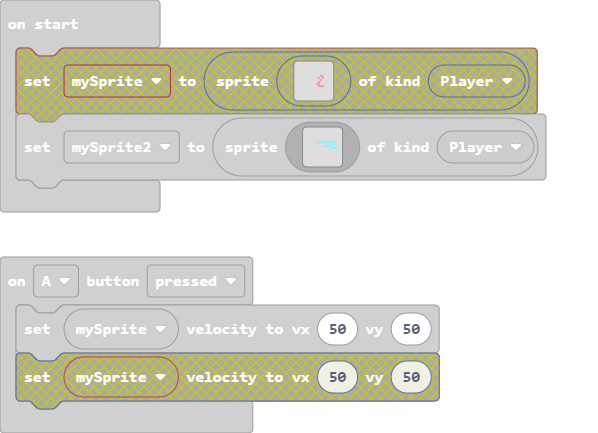
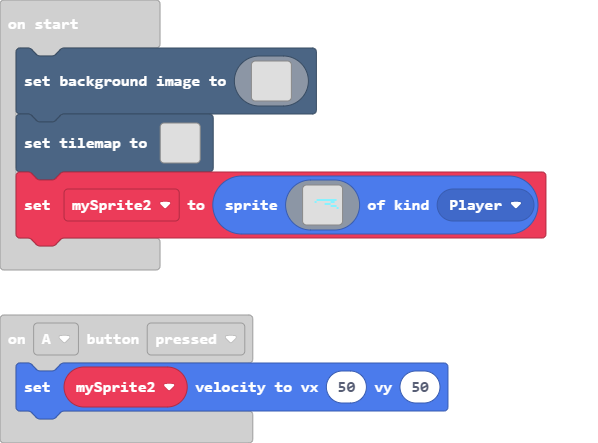
sum shit

diff --git a/main.ts b/main.ts
@@ -1,8 +1,131 @@
 controller.A.onEvent(ControllerButtonEvent.Pressed, function () {
-    let mySprite: Sprite = null
-    mySprite.setVelocity(50, 50)
+    mySprite2.setVelocity(50, 50)
 })
-let mySprite2 = sprites.create(img`
+let mySprite2: Sprite = null
+scene.setBackgroundImage(img`
+    ................................................................................................................................................................
+    ................................................................................................................................................................
+    ................................................................................................................................................................
+    ................................................................................................................................................................
+    ................................................................................................................................................................
+    ................................................................................................................................................................
+    ................................................................................................................................................................
+    ................................................................................................................................................................
+    ................................................................................................................................................................
+    ................................................................................................................................................................
+    ................................................................................................................................................................
+    ................................................................................................................................................................
+    ................................................................................................................................................................
+    ................................................................................................................................................................
+    ................................................................................................................................................................
+    ................................................................................................................................................................
+    ................................................................................................................................................................
+    ................................................................................................................................................................
+    ................................................................................................................................................................
+    ................................................................................................................................................................
+    ................................................................................................................................................................
+    ................................................................................................................................................................
+    ................................................................................................................................................................
+    ................................................................................................................................................................
+    ................................................................................................................................................................
+    ................................................................................................................................................................
+    ................................................................................................................................................................
+    ................................................................................................................................................................
+    ................................................................................................................................................................
+    ................................................................................................................................................................
+    ................................................................................................................................................................
+    ................................................................................................................................................................
+    ................................................................................................................................................................
+    ................................................................................................................................................................
+    ................................................................................................................................................................
+    ................................................................................................................................................................
+    ................................................................................................................................................................
+    ................................................................................................................................................................
+    ................................................................................................................................................................
+    ................................................................................................................................................................
+    ................................................................................................................................................................
+    ................................................................................................................................................................
+    ................................................................................................................................................................
+    ................................................................................................................................................................
+    ................................................................................................................................................................
+    ................................................................................................................................................................
+    ................................................................................................................................................................
+    ................................................................................................................................................................
+    ................................................................................................................................................................
+    ................................................................................................................................................................
+    ................................................................................................................................................................
+    ................................................................................................................................................................
+    ................................................................................................................................................................
+    ................................................................................................................................................................
+    ................................................................................................................................................................
+    ................................................................................................................................................................
+    ................................................................................................................................................................
+    ................................................................................................................................................................
+    ................................................................................................................................................................
+    ................................................................................................................................................................
+    ................................................................................................................................................................
+    ................................................................................................................................................................
+    ................................................................................................................................................................
+    ................................................................................................................................................................
+    ................................................................................................................................................................
+    ................................................................................................................................................................
+    ................................................................................................................................................................
+    ................................................................................................................................................................
+    ................................................................................................................................................................
+    ................................................................................................................................................................
+    ................................................................................................................................................................
+    ................................................................................................................................................................
+    ................................................................................................................................................................
+    ................................................................................................................................................................
+    ................................................................................................................................................................
+    ................................................................................................................................................................
+    ................................................................................................................................................................
+    ................................................................................................................................................................
+    ................................................................................................................................................................
+    ................................................................................................................................................................
+    ................................................................................................................................................................
+    ................................................................................................................................................................
+    ................................................................................................................................................................
+    ................................................................................................................................................................
+    ................................................................................................................................................................
+    ................................................................................................................................................................
+    ................................................................................................................................................................
+    ................................................................................................................................................................
+    ................................................................................................................................................................
+    ................................................................................................................................................................
+    ................................................................................................................................................................
+    ................................................................................................................................................................
+    ................................................................................................................................................................
+    ................................................................................................................................................................
+    ................................................................................................................................................................
+    ................................................................................................................................................................
+    ................................................................................................................................................................
+    ................................................................................................................................................................
+    ................................................................................................................................................................
+    ................................................................................................................................................................
+    ................................................................................................................................................................
+    ................................................................................................................................................................
+    ................................................................................................................................................................
+    ................................................................................................................................................................
+    ................................................................................................................................................................
+    ................................................................................................................................................................
+    ................................................................................................................................................................
+    ................................................................................................................................................................
+    ................................................................................................................................................................
+    ................................................................................................................................................................
+    ................................................................................................................................................................
+    ................................................................................................................................................................
+    ................................................................................................................................................................
+    ................................................................................................................................................................
+    ................................................................................................................................................................
+    ................................................................................................................................................................
+    ................................................................................................................................................................
+    ................................................................................................................................................................
+    ................................................................................................................................................................
+    ................................................................................................................................................................
+    `)
+tiles.setTilemap(tilemap`level1`)
+mySprite2 = sprites.create(img`
     . . . . . . . . . . . . . . . . 
     . . . . . . . . . . . . . . . . 
     . . . . . . . . . . . . . . . . 

diff --git a/tilemap.g.ts b/tilemap.g.ts
@@ -1,0 +1,39 @@
+// Auto-generated code. Do not edit.
+namespace myTiles {
+    //% fixedInstance jres blockIdentity=images._tile
+    export const transparency16 = image.ofBuffer(hex``);
+
+    helpers._registerFactory("tilemap", function(name: string) {
+        switch(helpers.stringTrim(name)) {
+            case "level1":
+            case "level1":return tiles.createTilemap(hex`1000100000000000000000000000000000000000000000000000000000000000000000000000000000000000000000000000000000000000000000000000000000000000000000000000000000000000000000000000000000000000000000000000000000000000000000000000000000000000000000000000000000000000000000000000000000000000000000000000000000000000000000000000000000000000000000000000000000000000000000000000000000000000000000000000000000000000000000000000000000000000000000000000000000000000000000000000000000000000000000000000000000000000000000000000000000000000`, img`
+. . . . . . . . . . . . . . . . 
+. . . . . . . . . . . . . . . . 
+. . . . . . . . . . . . . . . . 
+. . . . . . . . . . . . . . . . 
+. . . . . . . . . . . . . . . . 
+. . . . . . . . . . . . . . . . 
+. . . . . . . . . . . . . . . . 
+. . . . . . . . . . . . . . . . 
+. . . . . . . . . . . . . . . . 
+. . . . . . . . . . . . . . . . 
+. . . . . . . . . . . . . . . . 
+. . . . . . . . . . . . . . . . 
+. . . . . . . . . . . . . . . . 
+. . . . . . . . . . . . . . . . 
+. . . . . . . . . . . . . . . . 
+. . . . . . . . . . . . . . . . 
+`, [myTiles.transparency16], TileScale.Sixteen);
+        }
+        return null;
+    })
+
+    helpers._registerFactory("tile", function(name: string) {
+        switch(helpers.stringTrim(name)) {
+            case "transparency16":return transparency16;
+        }
+        return null;
+    })
+
+}
+// Auto-generated code. Do not edit.
